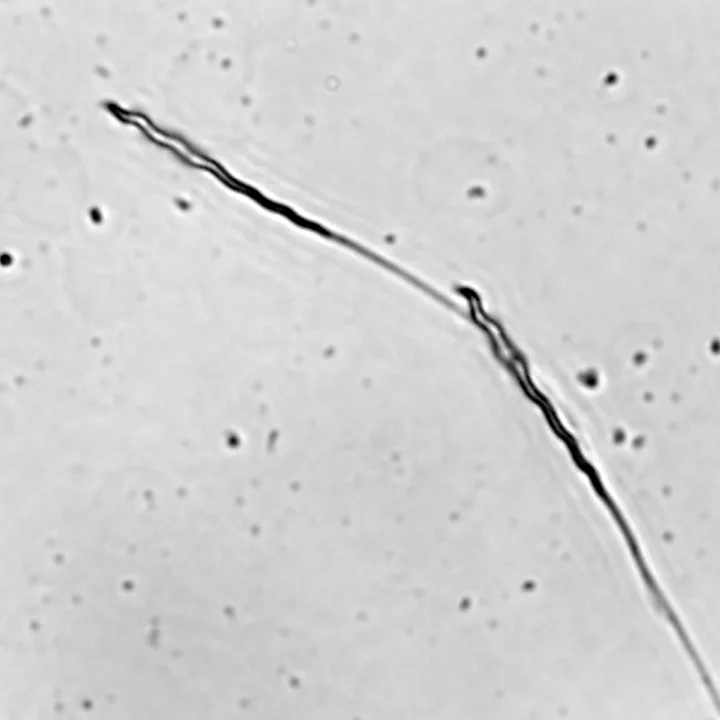
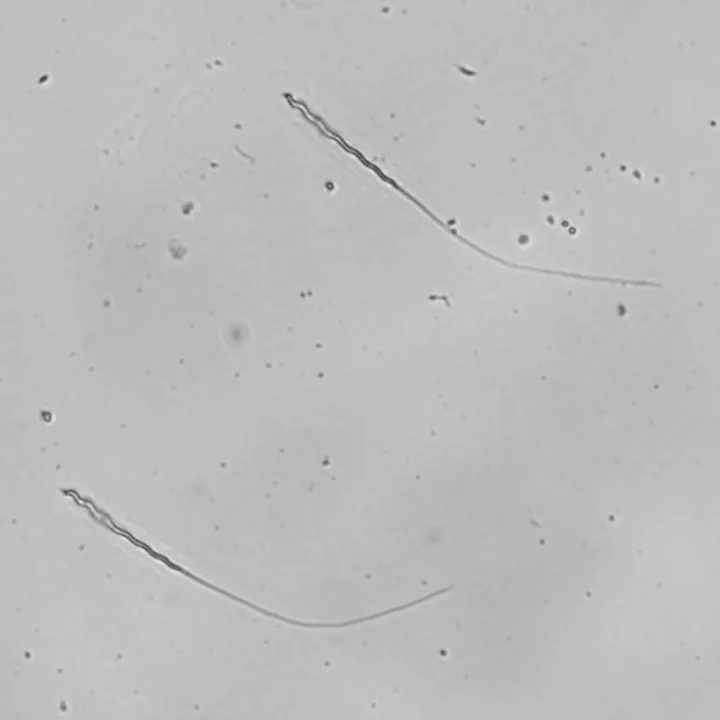
fix(landing): pick a sperm specimen whose two cells do not touch
The previous tile showed two cells lying head-to-tail along one diagonal.
They read as a single continuous filament, which is the opposite of what a
per-instance, per-part segmentation tile is meant to demonstrate: a viewer
cannot see that there are two cells, nor where one ends.

Replaced with image 1a91832a (images_CMR22B_150_3.jpg, the same sperm
project). Chosen by scoring all 452 segmented images in that project on:
2-4 instances, every instance complete (head + midpiece + tail), a minimum
gap of 40 px between instance bounding boxes, and a union bounding box that
crops square without cutting a cell off. 13 of 452 qualified; this one has
the cleanest background and the clearest three-part colouring on both cells.

The outlines are re-derived from the stored segmentation for that image and
RDP-simplified into the tile's 1000x1000 viewBox, as before. The asset also
gets smaller: 14570 -> 8194 bytes.

The alt text needed no change -- it already said "two sperm cells", which
this image is the first to actually show.

diff --git a/src/components/landing/specimens.ts b/src/components/landing/specimens.ts
@@ -533,18 +533,18 @@ export const SPECIMENS: readonly Specimen[] = [
     model: 'Sperm Morphology',
     projectType: 'sperm',
     outlines: [
-      { d: 'M147.6 145.2L323.8 256', stroke: '#22c55e' },
-      { d: 'M323.8 256L450 322.5L478.6 351.2', stroke: '#f59e0b' },
+      { d: 'M90.2 683.1L185.6 750.4', stroke: '#22c55e' },
+      { d: 'M185.6 750.4L257.9 794.6L260.5 798.4', stroke: '#f59e0b' },
       {
-        d: 'M478.6 351.2L507.1 379.7L563.7 408L571.1 408.5L594.2 403.2L601 405.2L650 445.2',
+        d: 'M260.5 798.4L369.4 850.9L401.4 862.4L434.7 868.9L474.4 867.6L507.7 859.9L566.6 840.7L621.7 816.3',
         stroke: '#06b6d4',
       },
-      { d: 'M645.2 404.8L773.8 585.7', stroke: '#22c55e' },
+      { d: 'M397.5 131.1L444.2 173.8L492.3 211.2', stroke: '#22c55e' },
+      { d: 'M492.3 211.2L553.2 262.4', stroke: '#f59e0b' },
       {
-        d: 'M773.8 585.7L763.8 575.5L857.9 716.6L892.4 802.4L889.3 766.7',
-        stroke: '#f59e0b',
+        d: 'M553.2 262.4L565.3 269.5L626.8 323.3L699.8 364.2L804.8 384.7L875.3 389.9L909.8 396.3',
+        stroke: '#06b6d4',
       },
-      { d: 'M889.3 766.7L876.2 718.6L847.6 697.6', stroke: '#06b6d4' },
     ],
   },
   {
